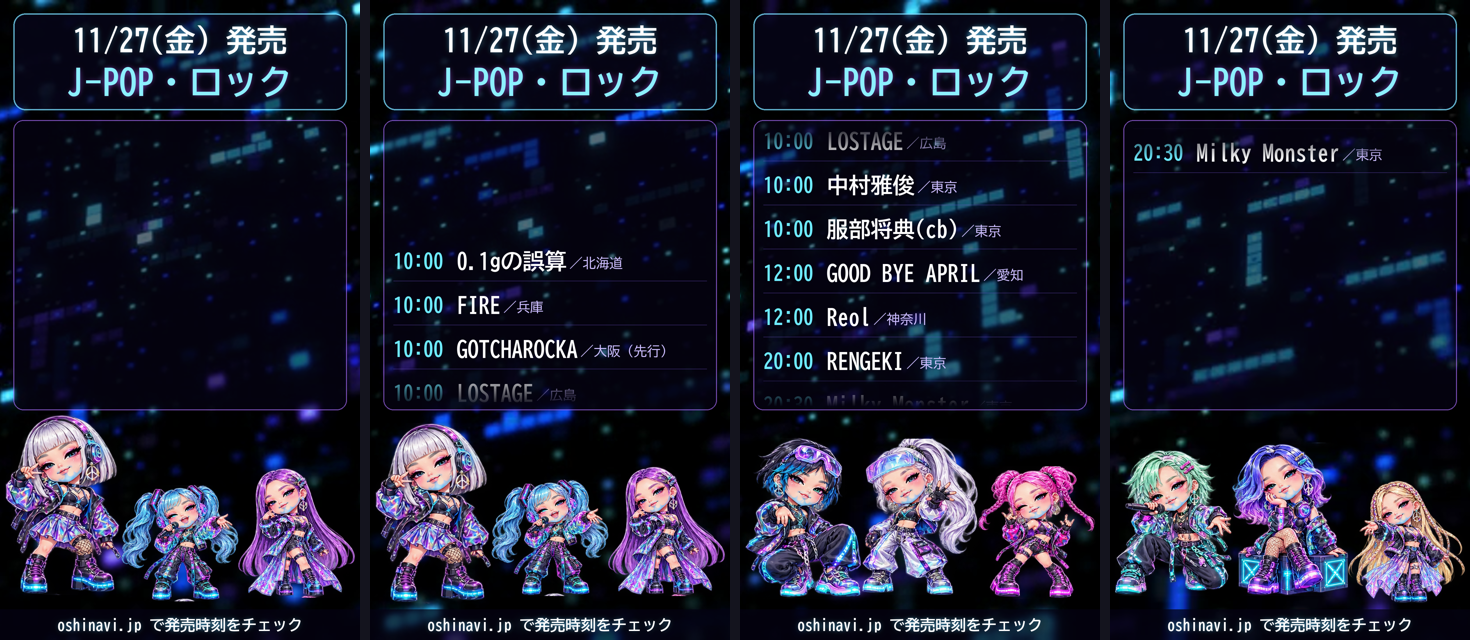
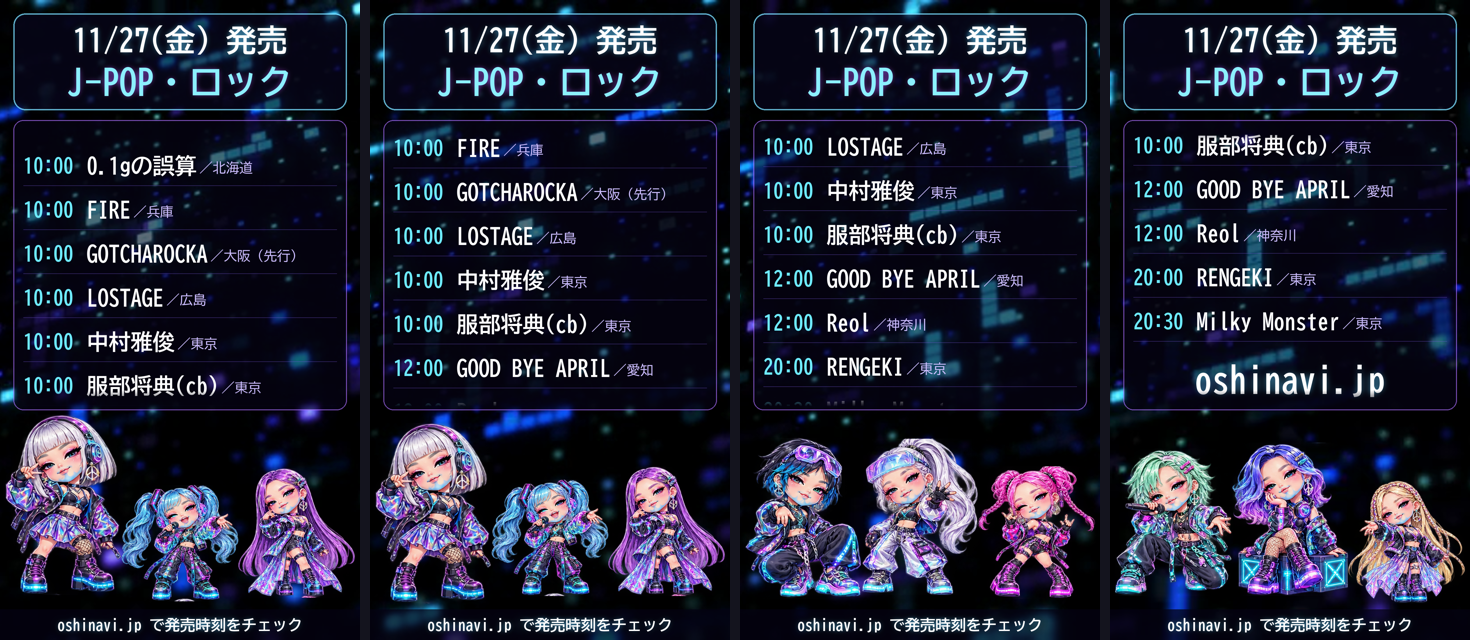
11/23 夜：14番の曲の動画＝すちこ「なにも文字がないことがないように・最後文字が残っててoshinavi.jpで終わり」＝最初から1行目で埋め、最後は残りの行と oshinavi.jp で止める形に（render1127）
Claude-Session: https://claude.ai/code/session_01FQDm48dAXPgAGoNjRP5MVi

diff --git a/tmp/x1123/songs/render1127.py b/tmp/x1123/songs/render1127.py
@@ -12,7 +12,7 @@ D = 'C:/Users/user/oshinavi/tmp/x1123/songs/'
 BG = 'C:/Users/user/Downloads/背景動画/96057_640x360.mp4'
 WAV = 'C:/Users/user/Downloads/OSHINAVI.wav'
 W, H, FPS, DUR = 1080, 1920, 30, 44.72
-T0, T1 = 2.3, 43.2           # 字幕が流れる間（前奏のあと〜曲の終わり）
+T0, T1 = 2.3, 41.5           # 字幕が流れる間（前奏のあと〜終わりの3秒前＝最後は oshinavi.jp で止まって見せる）
 FB = 'C:/Windows/Fonts/BIZ-UDGothicB.ttc'
 FR = 'C:/Windows/Fonts/BIZ-UDGothicR.ttc'
 f = lambda p, s: ImageFont.truetype(p, s)
@@ -52,10 +52,11 @@ glow_text(head, (W // 2, H - 46), 'oshinavi.jp で発売時刻をチェック', 
 
 # ---- 流れる字幕（縦長の1枚） ----
 RH = 132
-strip = Image.new('RGBA', (W - 120, RH * len(rows) + 40), (0, 0, 0, 0))
+PADT, ENDH = 60, 220          # 🆕11/23 すちこ「なにも文字がないことがないように・最後文字が残っててoshinavi.jpで終わり」
+strip = Image.new('RGBA', (W - 120, PADT + RH * len(rows) + ENDH), (0, 0, 0, 0))
 ds = ImageDraw.Draw(strip)
 for i, r in enumerate(rows):
-    y = 20 + i * RH
+    y = PADT + i * RH
     ds.text((10, y + RH // 2), r['time'], font=f(FB, 60), fill=(110, 235, 255, 255), anchor='lm')
     nm = r['name']
     tail = '／' + r['pref'] + r['pre']
@@ -66,10 +67,17 @@ for i, r in enumerate(rows):
     ds.text((200, y + RH // 2), nm, font=fn, fill=(255, 255, 255, 255), anchor='lm')
     ds.text((200 + ds.textlength(nm, font=fn) + 8, y + RH // 2 + 6), tail, font=f(FR, 40), fill=(205, 190, 255, 255), anchor='lm')
     ds.line((10, y + RH - 6, W - 130, y + RH - 6), fill=(120, 90, 220, 90), width=2)
+# 最後の行＝oshinavi.jp（光る文字）
+ey = PADT + RH * len(rows) + ENDH // 2
+g = Image.new('RGBA', strip.size, (0, 0, 0, 0))
+ImageDraw.Draw(g).text((strip.width // 2, ey), 'oshinavi.jp', font=f(FB, 104), fill=(90, 200, 255, 255), anchor='mm')
+g = g.filter(ImageFilter.GaussianBlur(12))
+strip.alpha_composite(g); strip.alpha_composite(g)
+ImageDraw.Draw(strip).text((strip.width // 2, ey), 'oshinavi.jp', font=f(FB, 104), fill=(255, 255, 255, 255), anchor='mm')
 SH = BOT - TOP
-dist = SH + strip.height
+dist = max(0, strip.height - SH)   # 1行目が箱の上にいる所から、oshinavi.jp が箱の下に収まる所まで＝箱が空になる時が無い
 fade = np.ones(SH, dtype=np.float32)
-k = 110
+k = 50
 fade[:k] = np.linspace(0, 1, k); fade[-k:] = np.linspace(1, 0, k)
 FADE = Image.fromarray((np.tile(fade[:, None], (1, strip.width)) * 255).astype(np.uint8), 'L')
 
@@ -96,10 +104,11 @@ def frame(t):
     im = Image.new('RGBA', (W, H), (0, 0, 0, 0))
     im.alpha_composite(head)
     # 字幕
-    if T0 <= t:
-        off = int((t - T0) / (T1 - T0) * dist)
+    if True:
+        x = min(1.0, max(0.0, (t - T0) / (T1 - T0)))
+        off = int(x * dist)
         win = Image.new('RGBA', (strip.width, SH), (0, 0, 0, 0))
-        win.alpha_composite(strip, (0, SH - off))
+        win.alpha_composite(strip, (0, -off))
         a = np.asarray(win)[:, :, 3].astype(np.float32) * (np.asarray(FADE).astype(np.float32) / 255)
         win.putalpha(Image.fromarray(a.astype(np.uint8)))
         im.alpha_composite(win, (60, TOP))
